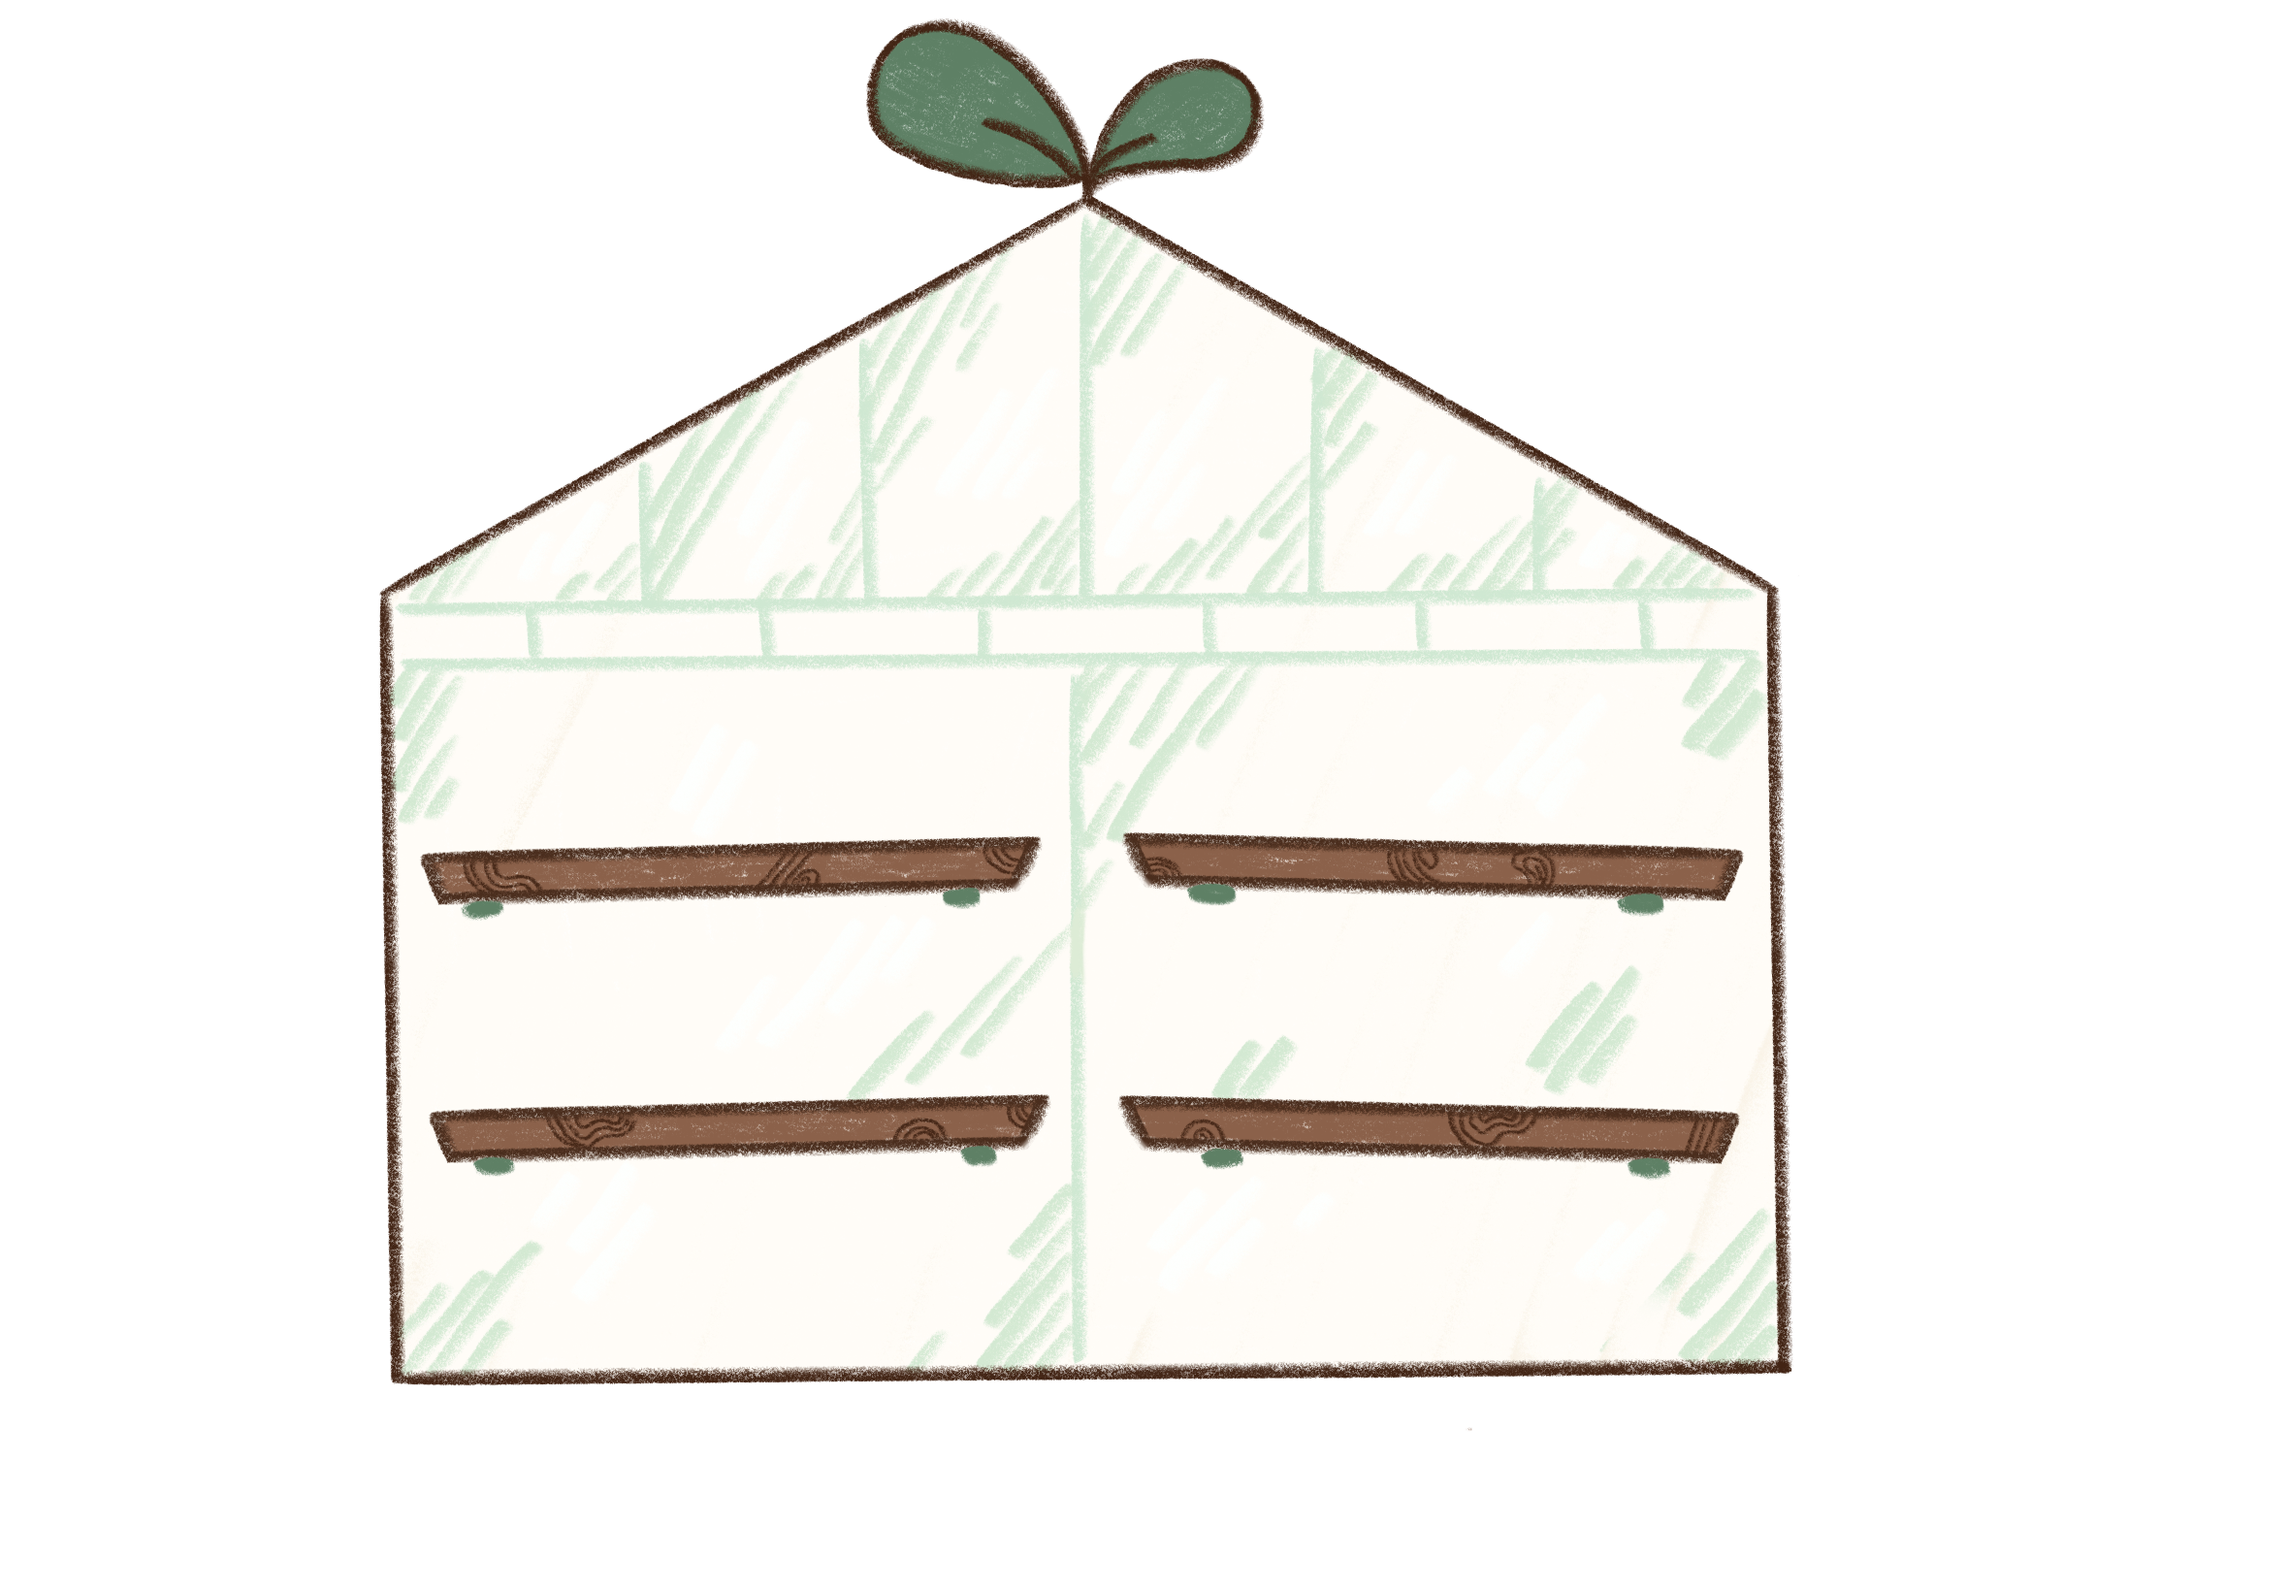
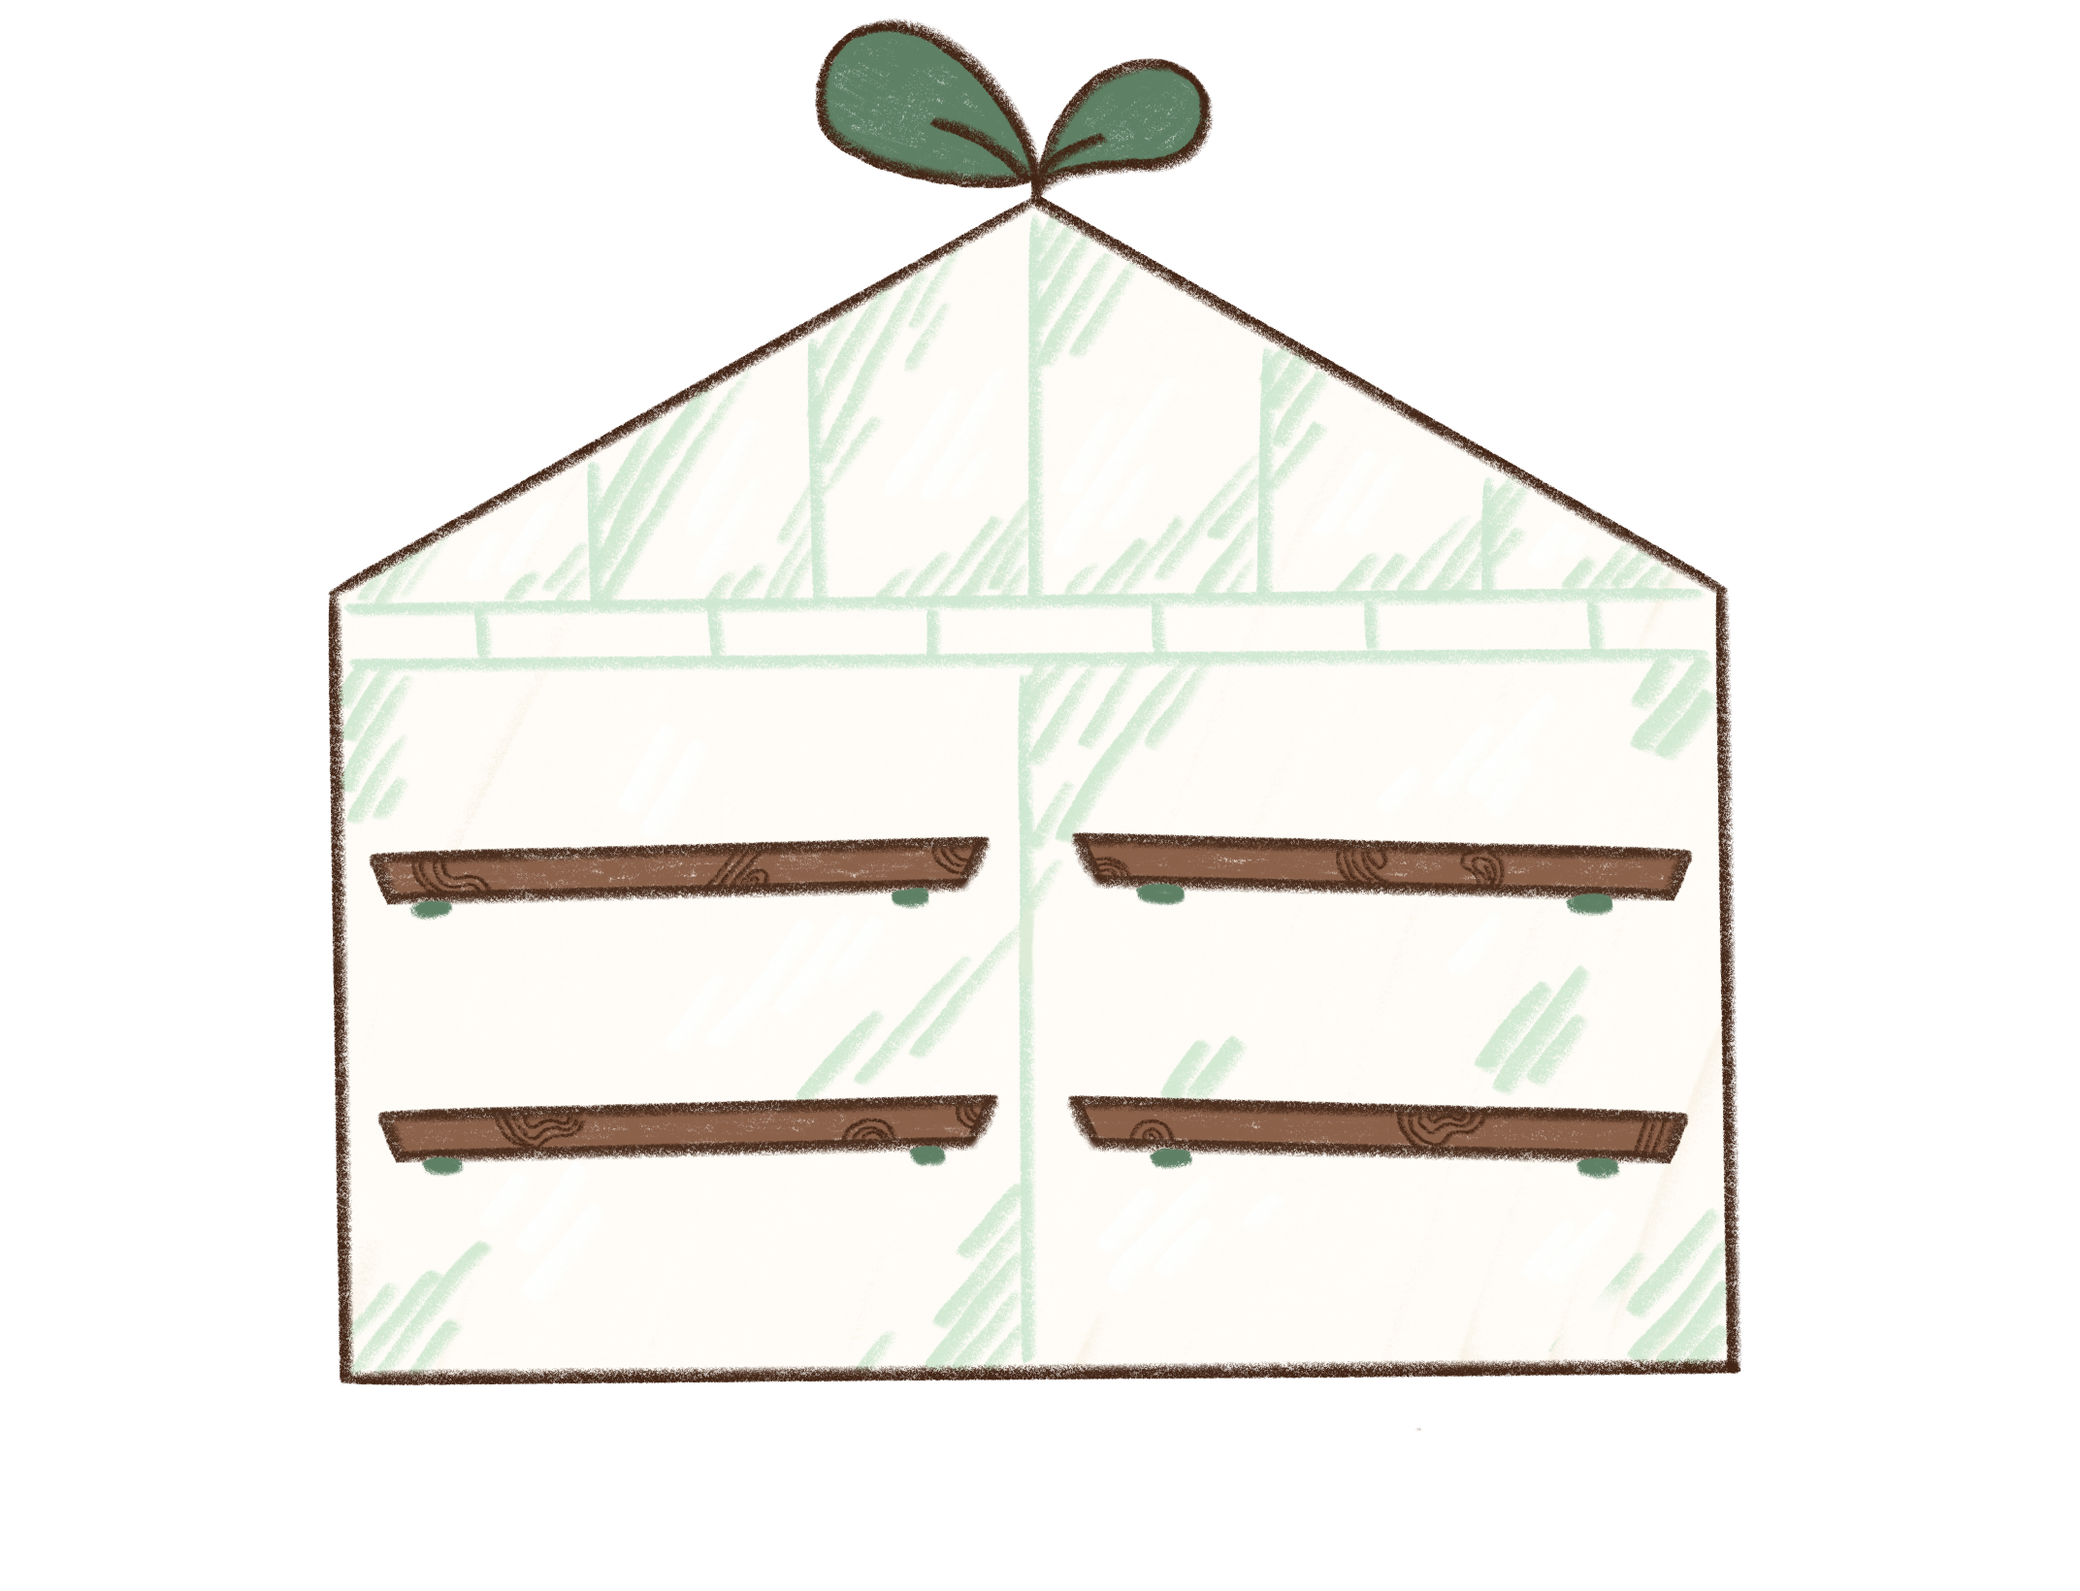
Greenhouse Center Edit

Changed region(s): [[0.1562, 0.0, 0.8438, 0.8707], [0.3125, 0.3732, 0.3438, 0.4043]]

diff --git a/greenhouse/css/main.css b/greenhouse/css/main.css
@@ -1,8 +1,7 @@
 .main_greenhouse{
     width: 65%;
     display: block;
-    margin-left: auto;
-    margin-right: auto;
+    margin: auto
 }
 
 /* Back Button */
